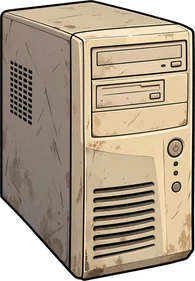
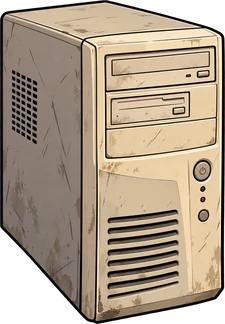
tweak(room): the system unit a bit bigger
Claude-Session: https://claude.ai/code/session_01E3jaUxUo8xTQNwyakAWMq3

diff --git a/src/content/home-scene.ts b/src/content/home-scene.ts
@@ -16,13 +16,13 @@ export const SCENE_OBJECTS = {
   monitorLeft: { x: 175, y: 545, w: 200, aspect: 1.0, flip: false },
   monitorRight: { x: 685, y: 545, w: 200, aspect: 1.0, flip: false },
   /** the system unit on the floor, right in the corner of the room (its back in the corner of the walls at x≈945, y≈885, the base on the floor in front of it) */
-  pc: { x: 868, y: 785, w: 120, aspect: 1.4401, flip: false },
+  pc: { x: 850, y: 756, w: 140, aspect: 1.4401, flip: false },
 } as const;
 
 /** tap zones (scene units) that open the windows: bigger than the pictures so a finger hits them */
 export const SCENE_HOT = {
   monitors: { x: 150, y: 520, w: 760, h: 250, equipment: "monitor2" },
-  pc: { x: 845, y: 755, w: 190, h: 235, equipment: "pc" },
+  pc: { x: 830, y: 730, w: 200, h: 245, equipment: "pc" },
 } as const;
 
 /** Character placement: the 1000×1400 rig canvas scaled into the scene. */

diff --git a/tools/scene/build-scene.py b/tools/scene/build-scene.py
@@ -14,7 +14,7 @@ os.makedirs(OUT, exist_ok=True)
 # widths in scene units (the seat in rig units, it lives in the character's space); ×1.5 for sharp phones
 # sky behind the penthouse window: top and height in scene units (keep in sync with src/content/home-scene.ts ROOM_SKY)
 SKY_Y, SKY_H = 40, 880
-WIDTH = {"desk": 780, "monitor": 220, "pc": 130, "seat": 360}
+WIDTH = {"desk": 780, "monitor": 220, "pc": 150, "seat": 360}
 DESKS = {}
 for f in sorted(os.listdir(os.path.join(HERE, "source"))):
     name, ext = os.path.splitext(f)
